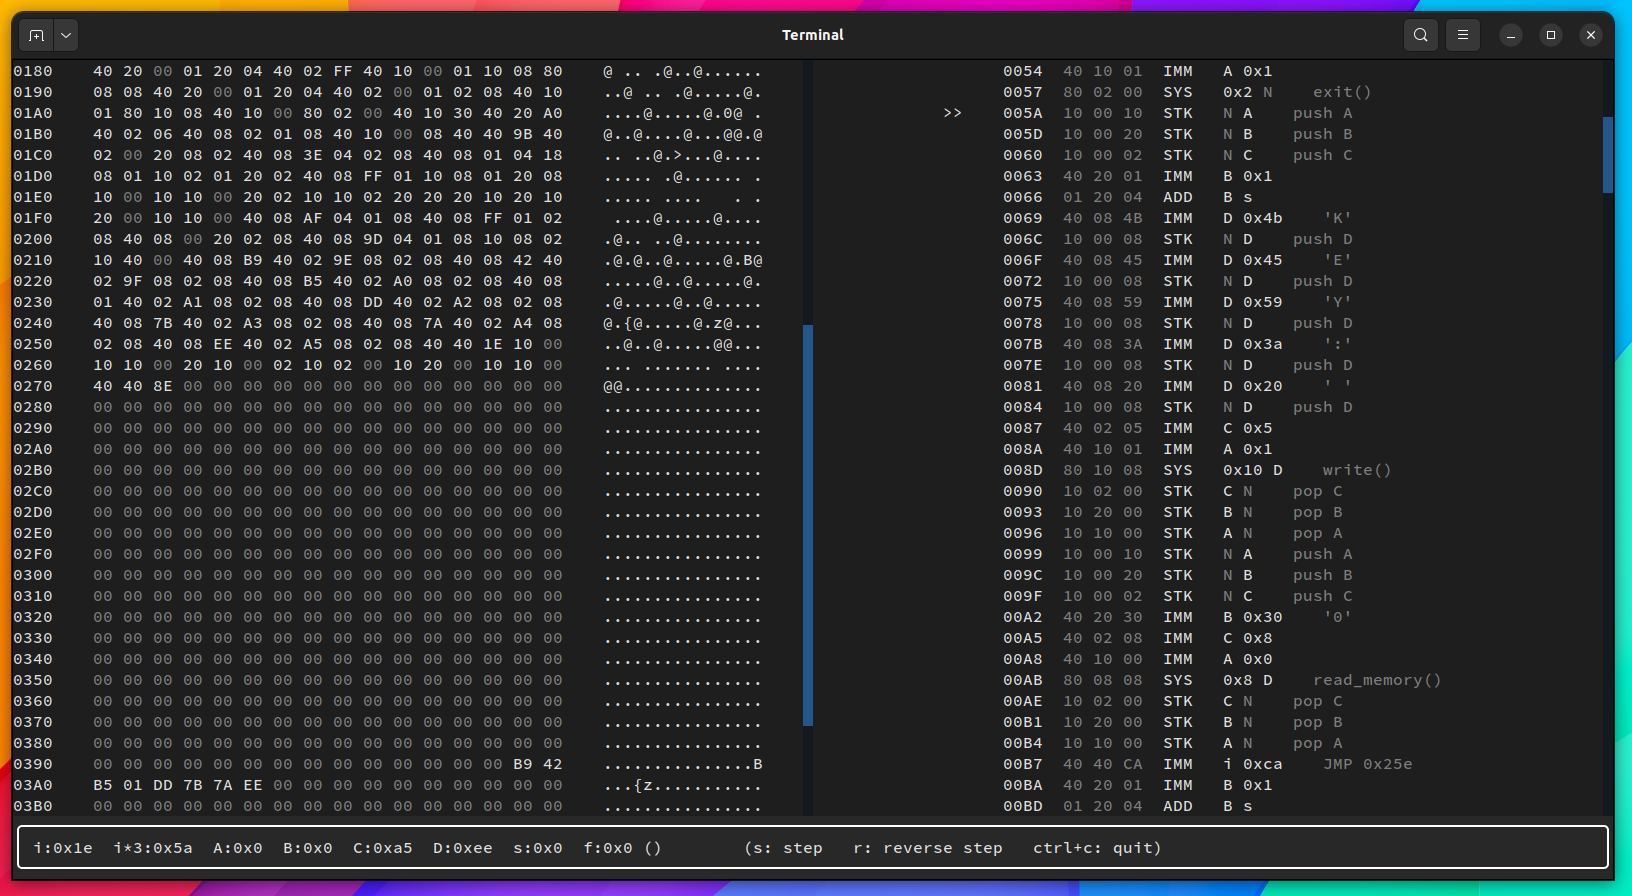
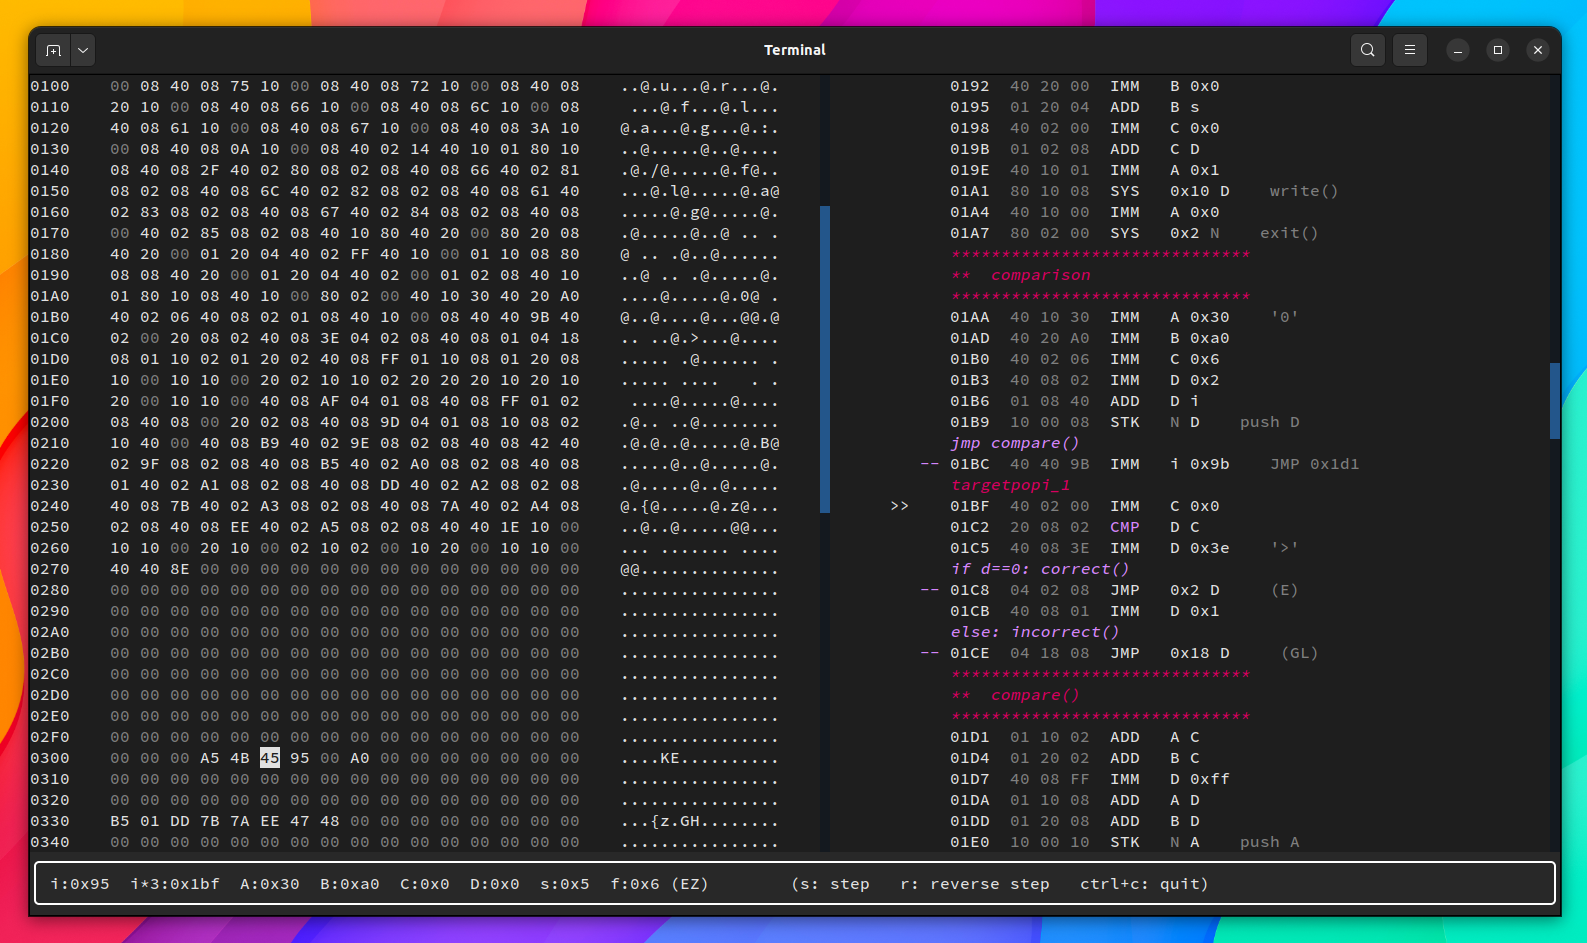
tweaks to styles

Changed region(s): [[0.0, 0.0, 1.0, 1.0], [0.8028, 0.8438, 0.8645, 0.875]]

diff --git a/yan85/disassembler.py b/yan85/disassembler.py
@@ -16,7 +16,7 @@ class Entity:
     #instruction only parameters
     instruction: Instruction
     params: List[Register|int|None] = [None, None]
-    dynamic_branches=False
+    changes_flow=False
     branches = []
 
     def __init__(self, type: Type, address, bytes):
@@ -59,7 +59,7 @@ class Entity:
         #highlight CMP instructions
         opcode_color = RESET_COLOR
         if self.instruction.opcode == Opcode.CMP:
-            opcode_color = YELLOW
+            opcode_color = OPCODE_HIGHLIGHT_COLOR
 
         data = f"{DARK_GRAY}{bytes}{RESET_COLOR} {opcode_color}{opcode}{RESET_COLOR}   {params_str[0]} {params_str[1]}"
         ret = f"{self.address:04X}  {data}"
@@ -115,10 +115,12 @@ class Disassembler:
             entity = self.disass_instruction(instr_addr)
             if instr_addr in self.comments:
                 comment = self.comments[instr_addr]
-                margin = " "*7
-                color = ITALIC + BLUE_COMMENT
+                margin = " "*9
+                color = ITALIC + COMMENT_COLOR
+                if entity.changes_flow:
+                    color = ITALIC + FLOW_LINES_COLOR
                 if comment[0] == " ":
-                    ret += f"{color}{margin}{self.comments[instr_addr]}{RESET_COLOR}\n"
+                    ret += f"{color}{margin}{self.comments[instr_addr][1:]}{RESET_COLOR}\n"
                 else:
                     ret += f"{color}{margin}******************************\n{RESET_COLOR}"
                     ret += f"{color}{margin}**  {self.comments[instr_addr]}\n{RESET_COLOR}"
@@ -137,16 +139,16 @@ class Disassembler:
     def siderbar_line(self, entity)->str:
         instr_addr = self.machine._read_register(Register.i) * 3
         is_current = entity.address == instr_addr
-        runs = 0
 
         if is_current:
             is_current = ">>"
         else:
             is_current = "  "
-        if runs == 0:
-            runs = "  "
+        if entity.changes_flow:
+            way = "--"
+            runs = f"{FLOW_LINES_COLOR}{way}{RESET_COLOR}"
         else:
-            runs = f"{BLUE}{runs:02}{RESET_COLOR}"
+            runs = "  "
         return f"   {is_current} {runs} "
 
 
@@ -195,6 +197,7 @@ class Disassembler:
                 p1 = instr_entity.params[0]
                 p2 = instr_entity.params[1]
                 if isinstance(p1, Register) and isinstance(p2, Register):
+                    #generate comment
                     if p1 == Register.N and p2 == Register.N:
                         comment = "nop"
                     elif p2 == Register.N:
@@ -204,6 +207,9 @@ class Disassembler:
                     else:
                         comment = f"{p1.value} = {p2.value}"
                     instr_entity.line_comment = comment
+                    #check effect on instruction flow
+                    if p1 == Register.i or p2 == Register.i:
+                        instr_entity.changes_flow = True
 
             if instr_entity.instruction.opcode == Opcode.IMM:
                 p1 = instr_entity.params[0]
@@ -211,10 +217,12 @@ class Disassembler:
                 if isinstance(p1, Register) and isinstance(p2, int):
                     if p1 == Register.i:
                         instr_entity.line_comment = f"JMP {hex(p2*3)}"
+                        instr_entity.changes_flow = True
                     elif p2 >= ord(' ') and p2 <= ord('~'):
                         instr_entity.line_comment = f"'{chr(p2)}'"
 
             if instr_entity.instruction.opcode == Opcode.JMP:
+                instr_entity.changes_flow = True
                 p1 = instr_entity.params[0]
                 if isinstance(p1, int):
                     flags = [f.value for f in self.machine._get_flags(p1)]

diff --git a/yan85/debugger/core.py b/yan85/debugger/core.py
@@ -96,7 +96,7 @@ class Debugger:
         reg = self.machine._read_register(Register.D)
         res += f"D:{hex(reg)}  "
         reg = self.machine._read_register(Register.s)
-        res += f"{YELLOW}s{RESET_COLOR}:{hex(reg)}  "
+        res += f"{RESET_COLOR}s{RESET_COLOR}:{hex(reg)}  "
         reg = self.machine._read_register(Register.f)
         res += f"f:{hex(reg)} ({flags}) "
         res += "       (s: step   r: reverse step   ctrl+c: quit)"

diff --git a/yan85/utils.py b/yan85/utils.py
@@ -13,8 +13,13 @@ DARK_GRAY = "\033[90m"
 EXTRA_DARK_GRAY = "\033[2m"
 
 
-BLUE_COMMENT = "\033[38;5;210m"
-BLUE_COMMENT = "\033[38;5;177m"
+OPCODE_HIGHLIGHT_COLOR = "\033[38;5;161m"
+COMMENT_COLOR = "\033[38;5;210m"
+COMMENT_COLOR = "\033[38;5;177m"
+COMMENT_COLOR = OPCODE_HIGHLIGHT_COLOR
+FLOW_LINES_COLOR =  "\033[38;5;177m"
+OPCODE_HIGHLIGHT_COLOR = FLOW_LINES_COLOR
+
 
 # ANSI escape codes for text styles
 BOLD = "\033[1m"

diff --git a/yan85/debugger/tui_interface.py b/yan85/debugger/tui_interface.py
@@ -23,7 +23,7 @@ class HexDumpLine(Static):
             for j in range(i, min(i + 16, len(data))):
                 val = data[j]
                 if current_address == self.stack_address:
-                    color = YELLOW
+                    color = INVERT
                 elif val == 0:
                     color = DARK_GRAY
                 else:

diff --git a/main.py b/main.py
@@ -111,8 +111,8 @@ comments = {
         0xba: "correct()",
         0x5a: "read user input",
         0x1aa: "comparison",
-        0x1bc: " jmp ciao",
-        0x1d1: " ciao",
+        0x1bc: " jmp compare()",
+        0x1d1: "compare()",
         0x1f8: " if a!=b goto targetcmp_1",
         0x20d: " targetcmp_1",
 

diff --git a/README.md b/README.md
@@ -10,7 +10,7 @@ of yan85, the custom architecture used for vm-based obfuscation challenges in pw
 - `yan85.debugger` A TUI program based on the textual python library. It provides a time travel debugger with a scrollable view of the program memory and code disassembly
 
 <p align="center">
-<img src="./docs/screen1.png" width="900px" height="auto" />
+<img src="./docs/screen2.png" width="900px" height="auto" />
 </p>
 
 ## example usage
